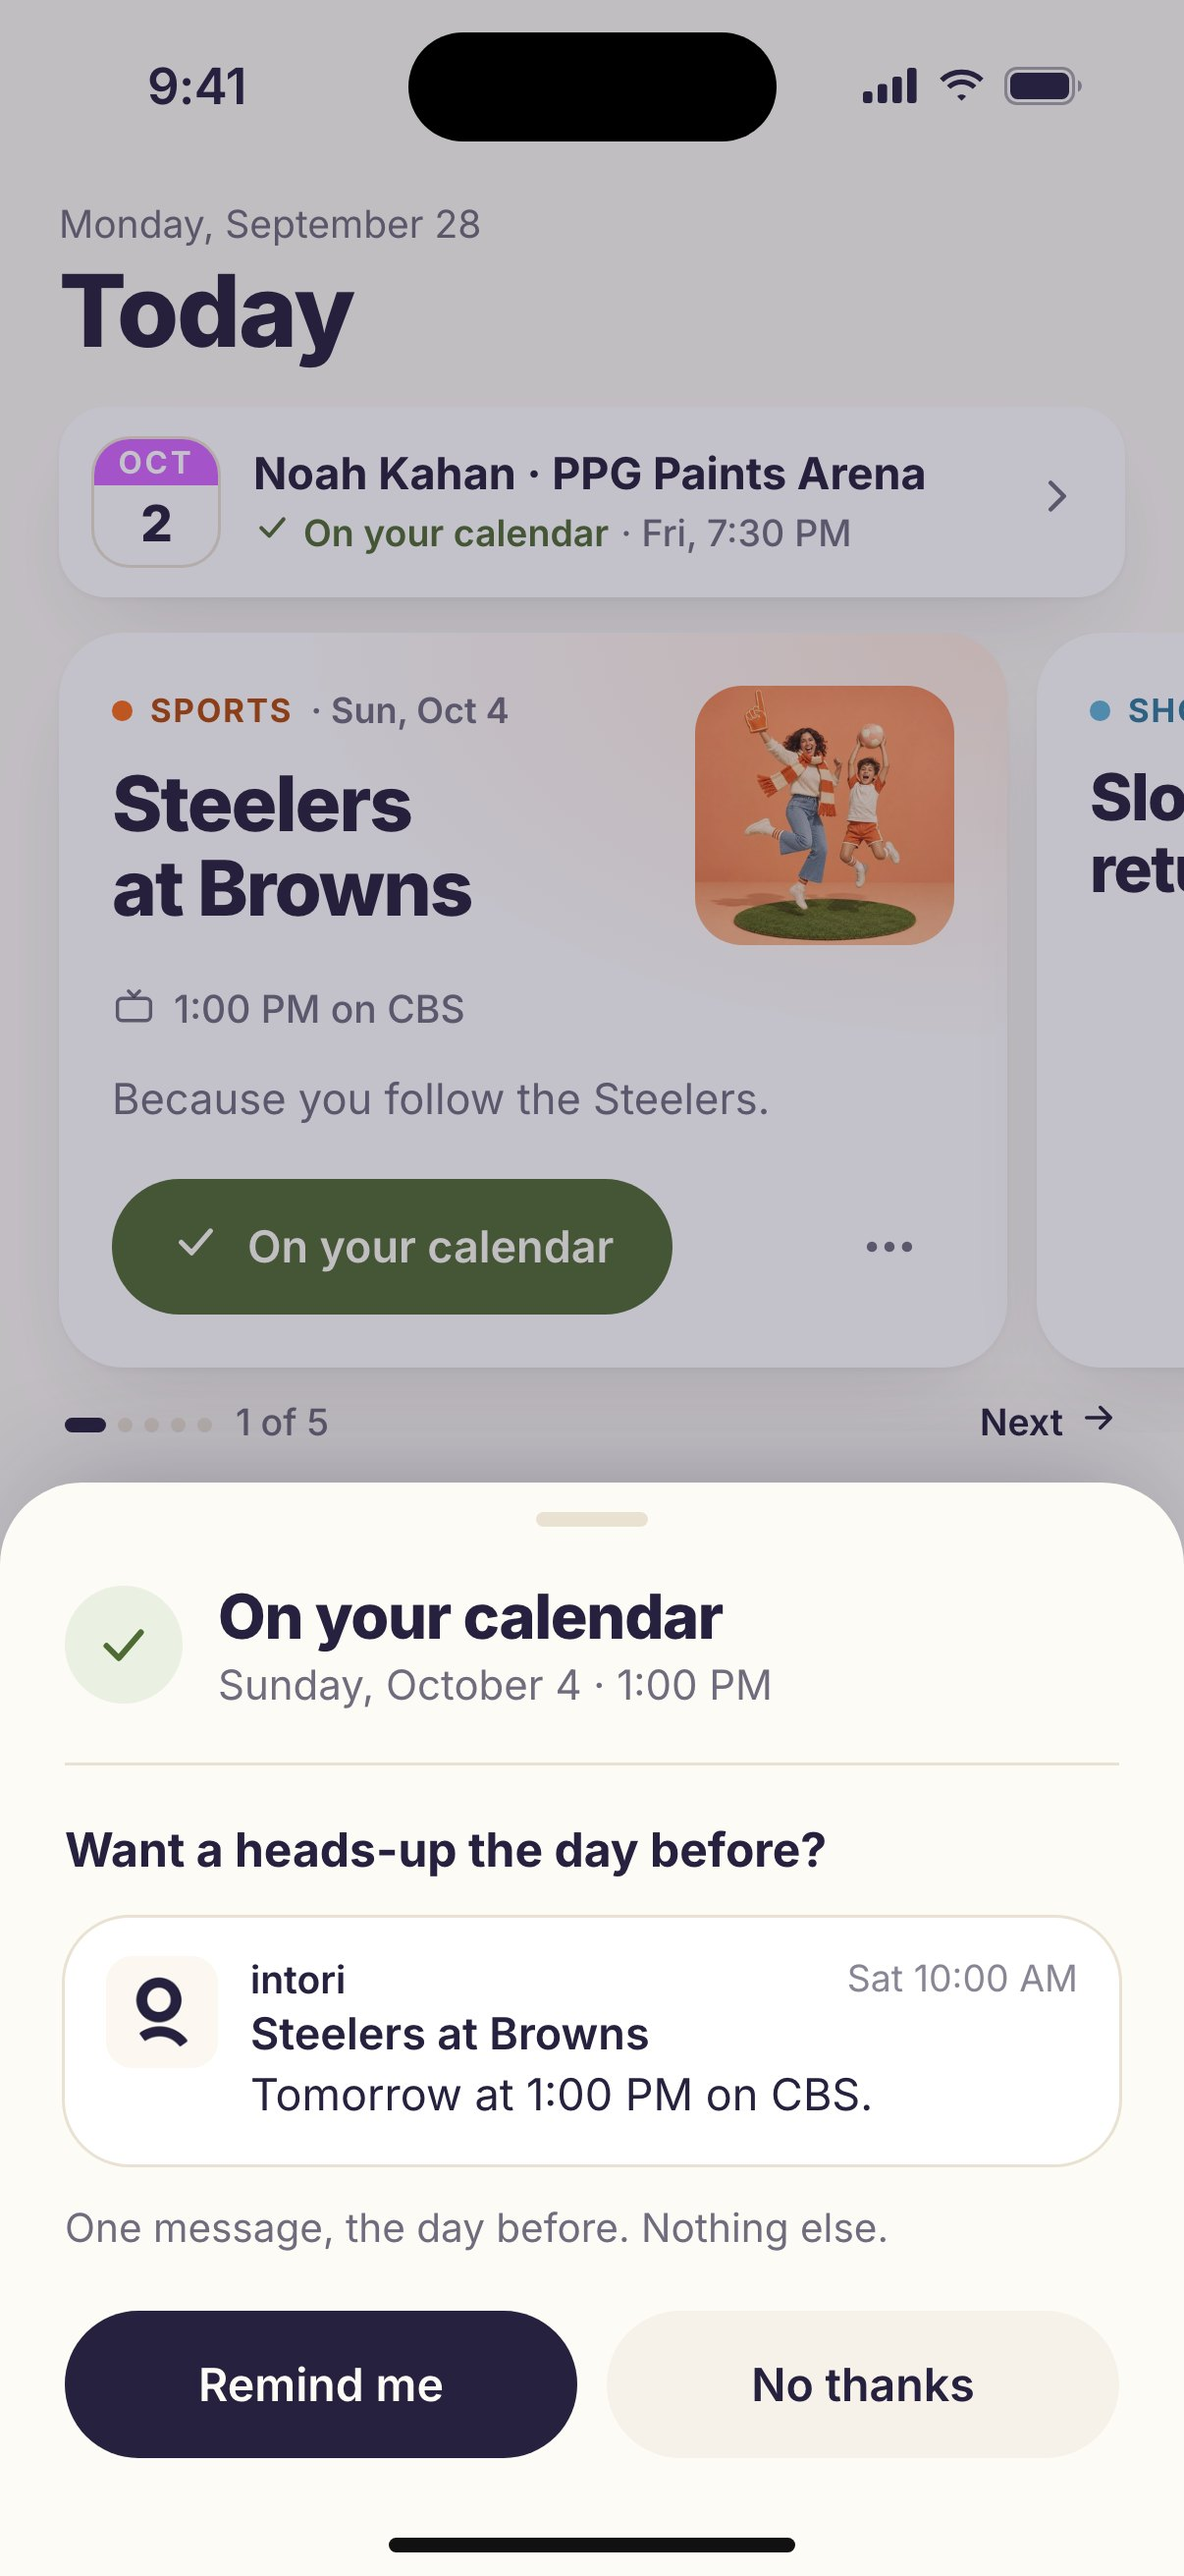
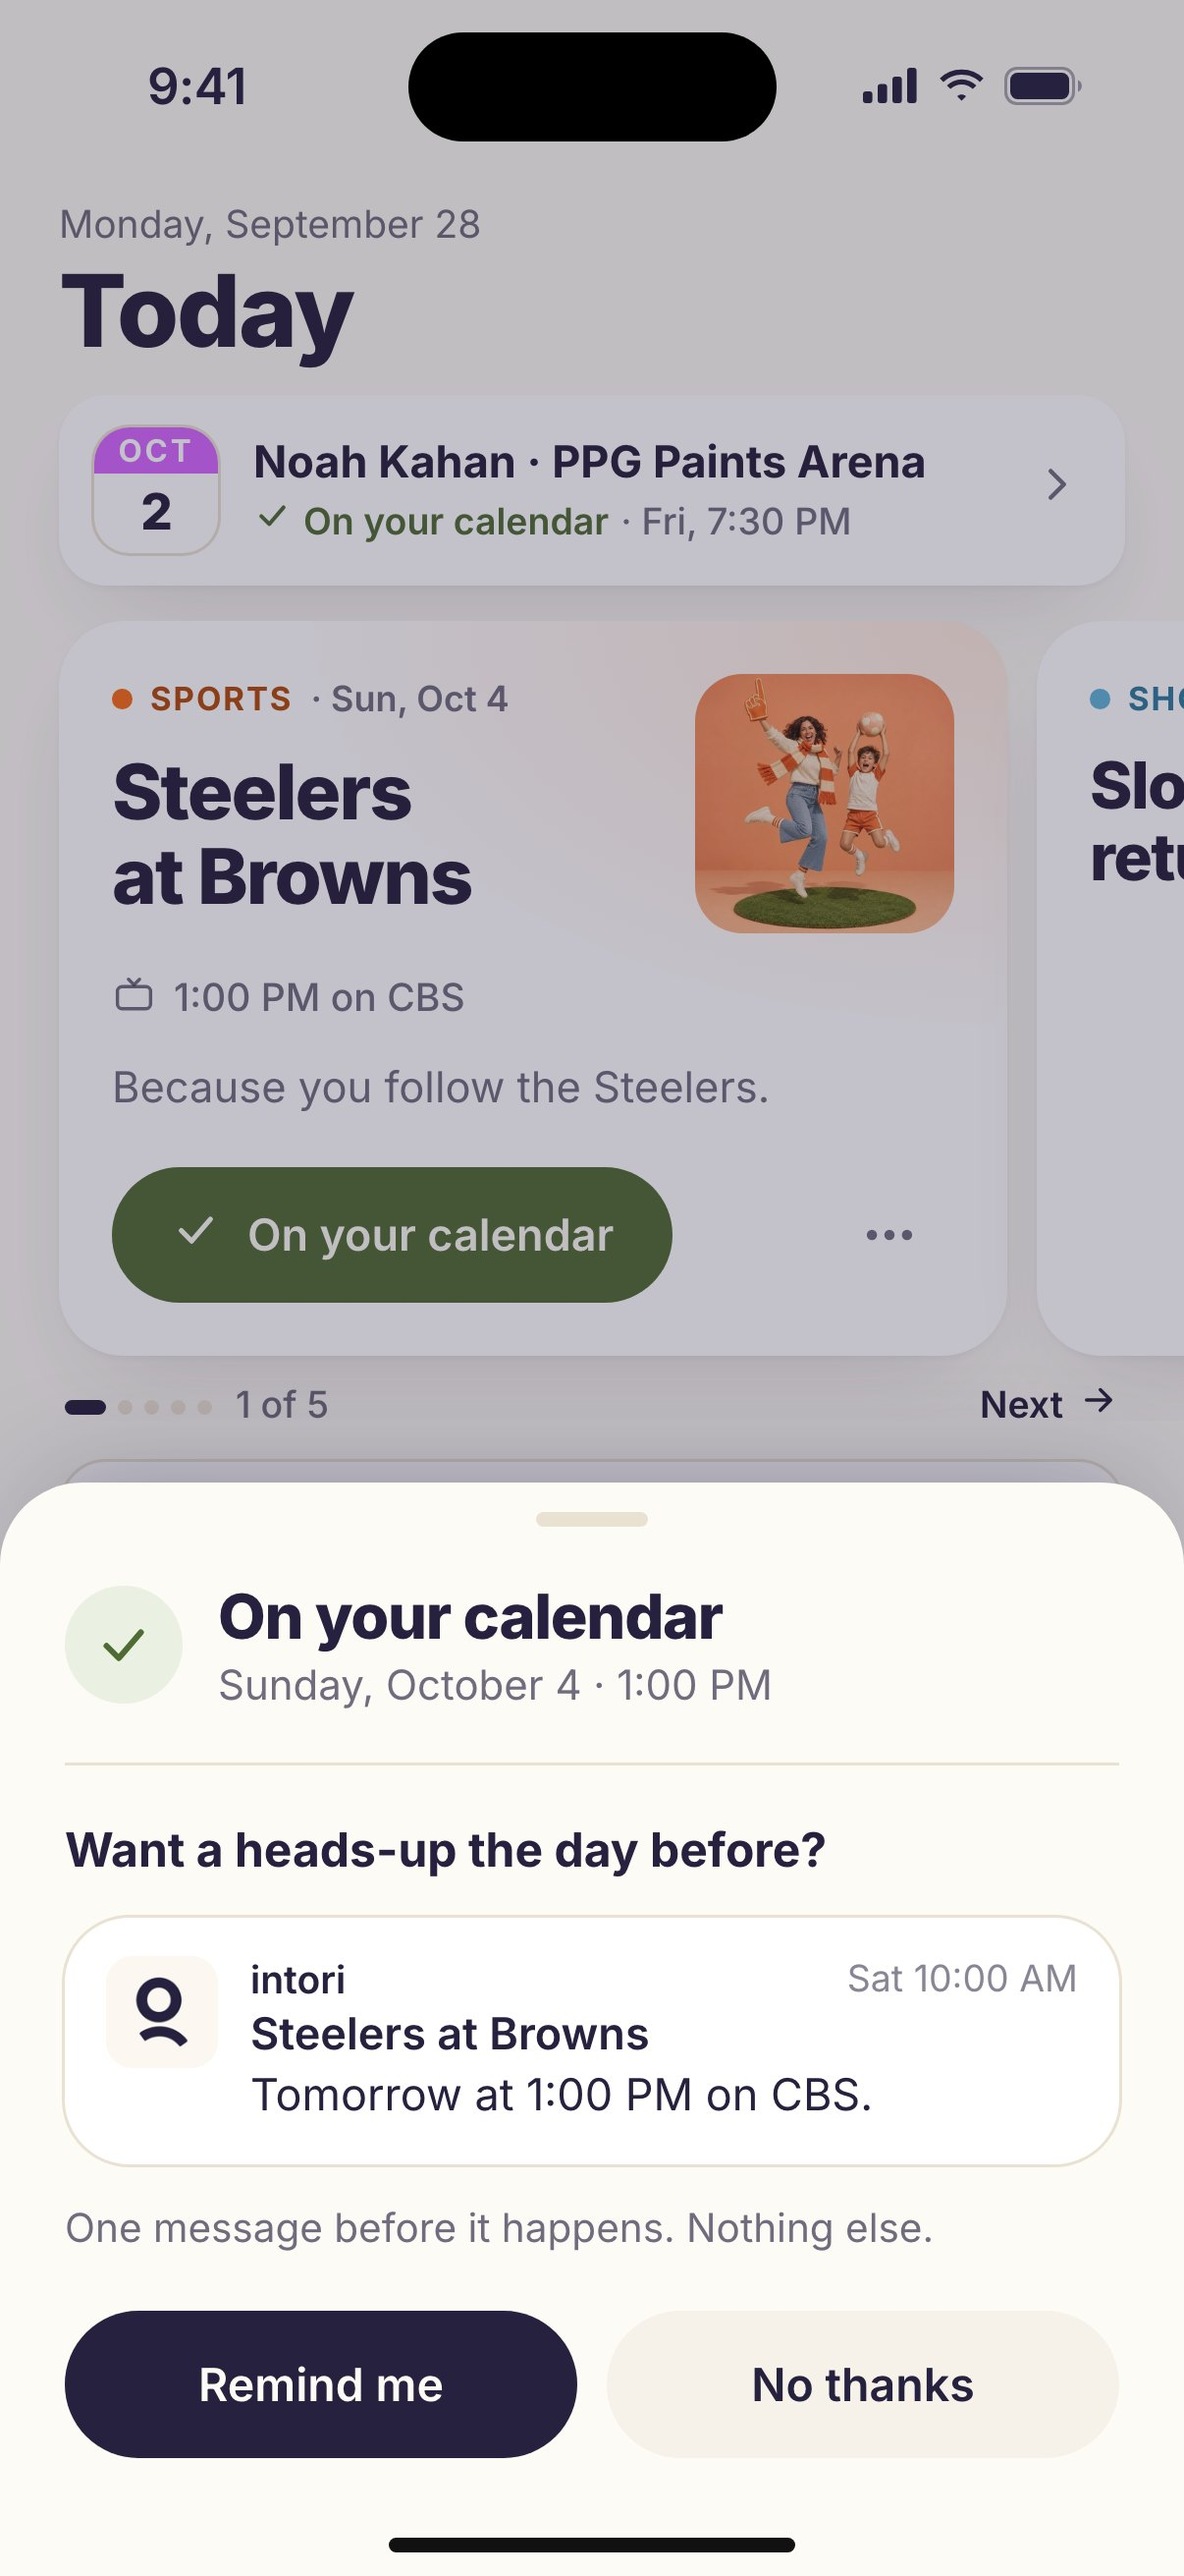
fix(home): say the problem outright, and match the app's setup and Food copy
Copy
- The homepage names the job intori takes on: keeping track of the fun
  stuff is one more job, and it usually falls to one person, or to nobody.
- Reminders go out the day before, or two days before a concert, as the
  app schedules them.
- Accounts are individual. The FAQ no longer says one subscription covers
  a household, and Terms section 10 now says each subscription covers one
  intori account (Last Updated moves to September 21).
- Two FAQ answers drop "saved results" and the line calling repeated
  questions one of the main problems intori solves.

Mocks
- Setup states what intori does ("Pick what your household loves. intori
  finds the dates worth adding to your calendar."), gives each lane one
  line (Dinner near your plans, Games for your teams, New seasons, Concerts
  near you), and uses the app's "Continue · 3 chosen".
- The Food card on Today and Added uses the app's own wording: dinner near
  the venue before the show, the show's start time, "Find a place nearby"
  and "Not tonight". intori does not know table availability, so "a table
  before 7" is gone.
- The reminder note matches the app: "One message before it happens.
  Nothing else."
- Home spacing tightened so the lane tiles clear the tab bar with the
  two-line Food title.

diff --git a/design/app-mocks/mock.css b/design/app-mocks/mock.css
@@ -78,7 +78,7 @@ html.render { zoom: 3; }
 
 .page { position: absolute; inset: 54px 0 0 0; padding: 14px 20px 0; }
 .day { margin: 0 0 3px; color: var(--muted); font-size: 13px; }
-.h1 { margin: 0 0 14px; font-size: 34px; line-height: 1.1; font-weight: 800; letter-spacing: -.02em; }
+.h1 { margin: 0 0 10px; font-size: 34px; line-height: 1.1; font-weight: 800; letter-spacing: -.02em; }
 
 .card { background: var(--card); border-radius: 22px; box-shadow: var(--shadow-card); }
 
@@ -126,14 +126,14 @@ html.render { zoom: 3; }
 .peek { flex: 0 0 200px; padding: 18px; border-radius: 22px; background: radial-gradient(120% 90% at 100% 0%, color-mix(in srgb, var(--lane) 14%, transparent), transparent 62%), var(--card); box-shadow: var(--shadow-card); }
 .peek .lead-title { font-size: 22px; margin-top: 9px; }
 
-.pager { display: flex; justify-content: space-between; align-items: center; margin: 10px 0 0; padding: 0 2px; font-size: 12.5px; color: var(--muted); font-weight: 500; }
+.pager { display: flex; justify-content: space-between; align-items: center; margin: 8px 0 0; padding: 0 2px; font-size: 12.5px; color: var(--muted); font-weight: 500; }
 .pager .next { color: var(--ink); font-weight: 600; display: inline-flex; gap: 5px; align-items: center; }
 .pips { display: inline-flex; gap: 4px; align-items: center; margin-right: 8px; vertical-align: middle; }
 .pips i { width: 5px; height: 5px; border-radius: 50%; background: var(--line); }
 .pips i.on { width: 14px; border-radius: 3px; background: var(--ink); }
 
 /* Secondary slot */
-.slot { display: grid; gap: 12px; margin: 14px 0 0; padding: 14px 16px; border: 1px solid var(--line); border-radius: 16px; background: var(--card); }
+.slot { display: grid; gap: 10px; margin: 10px 0 0; padding: 12px 16px; border: 1px solid var(--line); border-radius: 16px; background: var(--card); }
 .slot-eyebrow { margin: 0 0 3px; color: var(--muted); font-size: 11px; font-weight: 600; }
 .slot-eyebrow strong { color: var(--lane-text); font-weight: 700; letter-spacing: .06em; text-transform: uppercase; }
 .slot h2 { margin: 0; font-size: 16px; line-height: 1.3; font-weight: 700; }
@@ -143,7 +143,7 @@ html.render { zoom: 3; }
 .quiet { padding: 0 10px; color: var(--muted); font-size: 13px; font-weight: 600; }
 
 /* Lane doors, still row */
-.doors-h { margin: 18px 0 10px; font-size: 15px; font-weight: 700; }
+.doors-h { margin: 14px 0 8px; font-size: 15px; font-weight: 700; }
 .doors { display: grid; grid-template-columns: repeat(4, 1fr); gap: 8px; }
 .door { display: grid; justify-items: center; gap: 7px; padding: 10px 6px 11px; border-radius: 16px; background: var(--card); box-shadow: var(--shadow-card); font-size: 13px; font-weight: 700; }
 .door img { width: 56px; height: 56px; border-radius: 13px; object-fit: cover; }
@@ -206,6 +206,7 @@ html.render { zoom: 3; }
 .pick { position: relative; padding: 10px 10px 16px; border-radius: 18px; background: var(--card); box-shadow: 0 0 0 1px var(--line), var(--shadow-card); }
 .pick img { display: block; width: 100%; aspect-ratio: 5 / 4; object-fit: cover; border-radius: 12px; }
 .pick b { display: block; margin: 12px 0 0 2px; font-size: 18px; font-weight: 600; color: var(--lane-text); }
+.pick-line { display: block; margin: 3px 0 0 2px; font-size: 14px; line-height: 1.3; color: var(--muted); }
 .pick.on { box-shadow: 0 0 0 2px var(--ink), var(--shadow-card); }
 .pick .tick { position: absolute; top: 18px; right: 18px; width: 28px; height: 28px; display: grid; place-items: center; border-radius: 50%; background: var(--ink); color: #fff; box-shadow: 0 0 0 2px #fff; }
 .continue { position: absolute; left: 20px; right: 20px; bottom: 44px; display: grid; place-items: center; min-height: 54px; border-radius: 999px; background: var(--ink); color: var(--paper); font-size: 17px; font-weight: 600; }

diff --git a/design/app-mocks/setup.html b/design/app-mocks/setup.html
@@ -13,16 +13,16 @@
     <span class="back"><svg width="20" height="20" viewBox="0 0 24 24" fill="none" stroke="currentColor" stroke-width="2" stroke-linecap="round" stroke-linejoin="round"><path d="M19 12H5M11 6l-6 6 6 6"/></svg>Back</span>
     <p class="hello">Hi, I'm intori.</p>
     <h1 class="setup-h">What do I want to look forward to?</h1>
-    <p class="setup-sub">Pick any. A few quick questions each, and you can skip any of them.</p>
+    <p class="setup-sub">Pick what your household loves. intori finds the dates worth adding to your calendar.</p>
 
     <div class="picks">
-      <div class="pick lane-food"><img src="assets/food-table-for-four.jpg" alt=""><b>Food</b></div>
-      <div class="pick lane-sports on"><img src="assets/sports-game-day-family.jpg" alt=""><b>Sports</b><span class="tick" data-icon="check" data-size="15"></span></div>
-      <div class="pick lane-shows on"><img src="assets/shows-movie-night.jpg" alt=""><b>Shows</b><span class="tick" data-icon="check" data-size="15"></span></div>
-      <div class="pick lane-music on"><img src="assets/music-singer.jpg" alt=""><b>Music</b><span class="tick" data-icon="check" data-size="15"></span></div>
+      <div class="pick lane-food"><img src="assets/food-table-for-four.jpg" alt=""><b>Food</b><span class="pick-line">Dinner near your plans</span></div>
+      <div class="pick lane-sports on"><img src="assets/sports-game-day-family.jpg" alt=""><b>Sports</b><span class="pick-line">Games for your teams</span><span class="tick" data-icon="check" data-size="15"></span></div>
+      <div class="pick lane-shows on"><img src="assets/shows-movie-night.jpg" alt=""><b>Shows</b><span class="pick-line">New seasons</span><span class="tick" data-icon="check" data-size="15"></span></div>
+      <div class="pick lane-music on"><img src="assets/music-singer.jpg" alt=""><b>Music</b><span class="pick-line">Concerts near you</span><span class="tick" data-icon="check" data-size="15"></span></div>
     </div>
   </main>
-  <span class="continue">Continue</span>
+  <span class="continue">Continue · 3 chosen</span>
   <div class="home-indicator"></div>
 </div>
 <script src="chrome.js"></script>

diff --git a/lib/faq.ts b/lib/faq.ts
@@ -115,8 +115,8 @@ export const FAQ: FaqItem[] = [
   {
     question: "Will I have to keep answering the same questions?",
     answer: [
-      "No. That is one of the main problems intori is built to solve.",
-      "Repeating your preferences over and over is tiring. intori carries what you have already shared from one answer to the next, so your answers keep making the next pick better instead of starting over."
+      "No. Repeating your preferences over and over is tiring.",
+      "intori remembers what you have told it, so every answer makes the next pick better instead of starting over."
     ]
   },
   {
@@ -143,7 +143,7 @@ export const FAQ: FaqItem[] = [
   {
     question: "What does intori cost?",
     answer: [
-      "intori is $8.99 a month, or $79 a year. One subscription covers your whole household.",
+      "intori is $8.99 a month, or $79 a year.",
       "Before that, you get 14 days free. The trial starts when you finish setup, not when you sign up. It is a real date, and the app shows it to you, so you always know how long you have left.",
       "Choosing a plan starts billing straight away. There is no extra free period on top of your fourteen days, on the web or on iPhone."
     ]
@@ -159,7 +159,7 @@ export const FAQ: FaqItem[] = [
     question: "What happens if I stop paying?",
     answer: [
       "Everything you already added stays exactly where it is. Those events are on your own calendar, on your own device, and they do not depend on us.",
-      "What stops is the watching. intori stops finding and refreshing new picks until you subscribe again. Your answers, your preferences, and your saved results stay in your account."
+      "What stops is the watching. intori stops finding and refreshing new picks until you subscribe again. Your answers and everything you follow stay in your account."
     ]
   },
   {

diff --git a/pages/index.tsx b/pages/index.tsx
@@ -358,7 +358,9 @@ export default function HomePage({ qrSvg }: InferGetServerSidePropsType<typeof g
               <p className={styles.wedgeBody}>
                 Family calendars are great at keeping the household running. What they
                 can&rsquo;t do is notice that your team plays Sunday, your show is back next
-                week, or an artist you love is in town. intori does the noticing. And
+                week, or an artist you love is in town. Keeping track of all that is one
+                more job, and it usually falls to one person, or to nobody. intori does
+                the noticing. And
                 because it remembers what you have added, it can make those plans easier
                 too, like finding dinner near the venue before the show.
               </p>
@@ -417,7 +419,7 @@ export default function HomePage({ qrSvg }: InferGetServerSidePropsType<typeof g
                 </p>
                 <p className={styles.calSub}>
                   Everything you add also shows up in intori&rsquo;s Week, and if you want a
-                  reminder, intori sends one the day before.
+                  reminder, intori sends one the day before, or two days before a concert.
                 </p>
                 <p className={styles.calFine}>
                   intori can only add events. It can&rsquo;t read, change, or delete anything

diff --git a/pages/terms-of-use.tsx b/pages/terms-of-use.tsx
@@ -15,7 +15,7 @@ const Terms: NextPage = () => {
 
       <LegalLayout>
         <h1>intori Terms of Use</h1>
-        <p><strong>Last Updated: September 16, 2026</strong></p>
+        <p><strong>Last Updated: September 21, 2026</strong></p>
 
       <p>
         These terms cover the intori website and the intori mobile app. There is one set of terms for both.
@@ -152,7 +152,7 @@ const Terms: NextPage = () => {
 
       <h2>10. Subscriptions, purchases, and payments</h2>
       <p>
-        intori is sold as a subscription. One subscription covers your whole household.
+        intori is sold as a subscription. Each subscription covers one intori account.
       </p>
       <p>
         <strong>Free trial.</strong> Eligible new accounts get a 14-day trial with full access to intori. No payment method is required to start it. The trial begins when you complete onboarding, not when you create an account. Its end date is fixed at that point and is shown to you in the app. If you never complete onboarding, the trial does not start and intori does not produce personalized results for you. The trial does not become a paid subscription automatically. When it ends, you must choose a paid plan before intori will create or refresh another personalized result.

diff --git a/design/app-mocks/added.html b/design/app-mocks/added.html
@@ -57,11 +57,11 @@
     <!-- Makes the saved moment easier -->
     <div class="slot lane-food">
       <div>
-        <p class="slot-eyebrow"><strong>Food</strong> · Friday at PPG Paints Arena</p>
-        <h2>Dinner nearby before the show?</h2>
-        <p class="sub">A few places a short walk away, with a table before 7.</p>
+        <p class="slot-eyebrow"><strong>Food</strong> · Noah Kahan</p>
+        <h2>Dinner near PPG Paints Arena before Friday's show?</h2>
+        <p class="sub">Your show starts at 7:30 PM.</p>
       </div>
-      <div class="slot-actions"><span class="outline">Find a place</span><span class="quiet">Not now</span></div>
+      <div class="slot-actions"><span class="outline">Find a place nearby</span><span class="quiet">Not tonight</span></div>
     </div>
 
     <h3 class="doors-h">Explore by interest</h3>
@@ -94,7 +94,7 @@
         <p class="notif-body">Tomorrow at 1:00 PM on CBS.</p>
       </div>
     </div>
-    <p class="offer-note">One message, the day before. Nothing else.</p>
+    <p class="offer-note">One message before it happens. Nothing else.</p>
     <div class="btn-row"><span class="yes">Remind me</span><span class="no">No thanks</span></div>
   </section>
   <div class="home-indicator"></div>

diff --git a/design/app-mocks/today.html b/design/app-mocks/today.html
@@ -57,11 +57,11 @@
     <!-- Makes the saved moment easier -->
     <div class="slot lane-food">
       <div>
-        <p class="slot-eyebrow"><strong>Food</strong> · Friday at PPG Paints Arena</p>
-        <h2>Dinner nearby before the show?</h2>
-        <p class="sub">A few places a short walk away, with a table before 7.</p>
+        <p class="slot-eyebrow"><strong>Food</strong> · Noah Kahan</p>
+        <h2>Dinner near PPG Paints Arena before Friday's show?</h2>
+        <p class="sub">Your show starts at 7:30 PM.</p>
       </div>
-      <div class="slot-actions"><span class="outline">Find a place</span><span class="quiet">Not now</span></div>
+      <div class="slot-actions"><span class="outline">Find a place nearby</span><span class="quiet">Not tonight</span></div>
     </div>
 
     <h3 class="doors-h">Explore by interest</h3>
